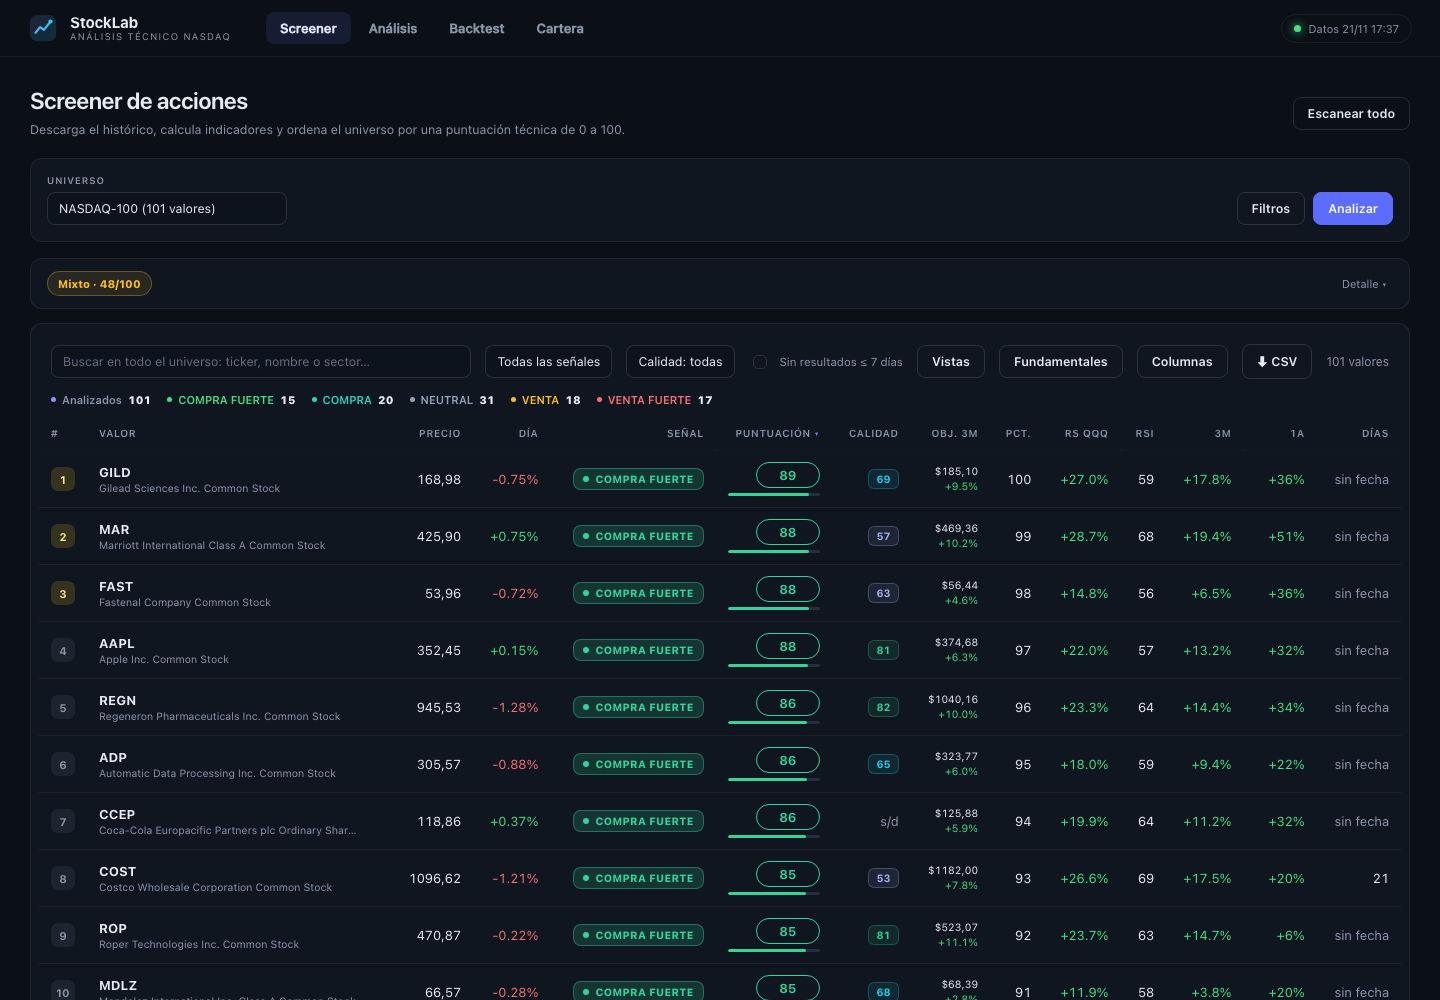
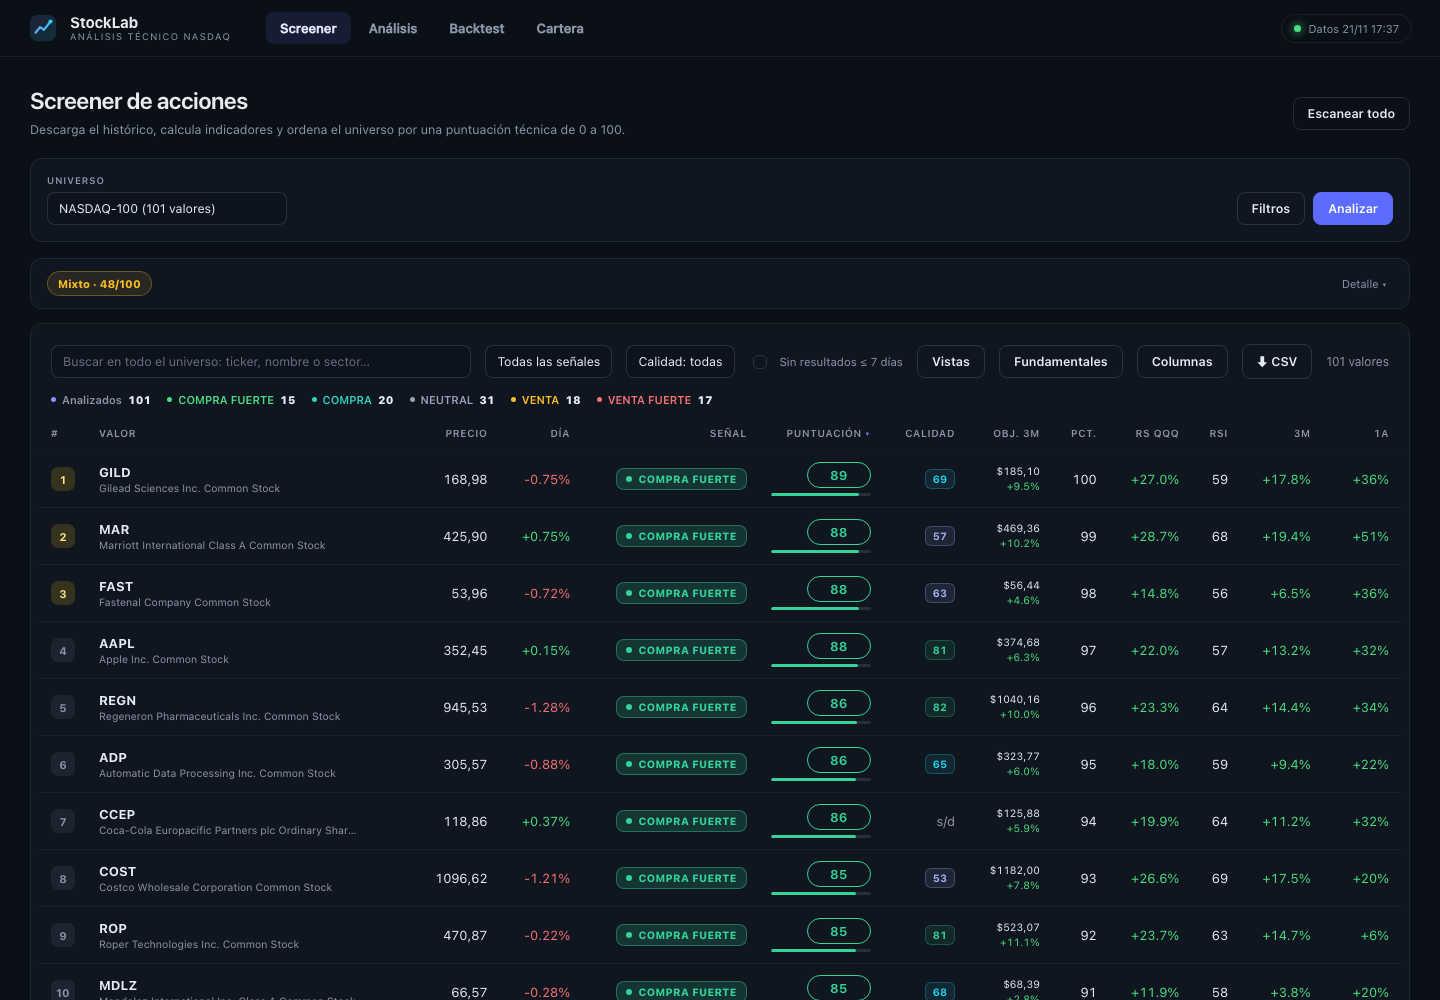
Screener: ocultar Dias por defecto

diff --git a/web/app.js b/web/app.js
@@ -67,9 +67,9 @@
     noEarnings: false,
     enrichRunning: false,
     regime: {},
-    hiddenCols: store.get("sl.hiddenCols.v2", [
-      "revenue_growth", "eps_surprise", "trend", "momentum",
-      "vol_60d", "max_drawdown",
+    hiddenCols: store.get("sl.hiddenCols.v3", [
+      "revenue_growth", "eps_surprise", "days_to_earnings", "trend",
+      "momentum", "vol_60d", "max_drawdown",
     ]),
     views: store.get("sl.views", []),
     capital: store.get("sl.capital", 10000),
@@ -403,7 +403,7 @@
     $("#noEarnings").checked = !!config.noEarnings;
     state.noEarnings = !!config.noEarnings;
     state.hiddenCols = config.hiddenCols || [];
-    store.set("sl.hiddenCols.v2", state.hiddenCols);
+    store.set("sl.hiddenCols.v3", state.hiddenCols);
     buildColumnPanel();
     applyColumns();
     updateScanNote();
@@ -421,7 +421,7 @@
   function buildColumnPanel() {
     const panel = $("#columnsPanel");
     if (!panel) return;
-    store.set("sl.hiddenCols.v2", state.hiddenCols);
+    store.set("sl.hiddenCols.v3", state.hiddenCols);
     panel.innerHTML =
       Object.entries(OPTIONAL_COLUMNS)
         .map(
@@ -439,13 +439,13 @@
         } else if (!state.hiddenCols.includes(key)) {
           state.hiddenCols.push(key);
         }
-        store.set("sl.hiddenCols.v2", state.hiddenCols);
+        store.set("sl.hiddenCols.v3", state.hiddenCols);
         applyColumns();
       });
     });
     panel.querySelector("#resetColumns").addEventListener("click", () => {
       state.hiddenCols = ["trend", "momentum", "vol_60d", "max_drawdown"];
-      store.set("sl.hiddenCols.v2", state.hiddenCols);
+      store.set("sl.hiddenCols.v3", state.hiddenCols);
       buildColumnPanel();
       applyColumns();
     });
